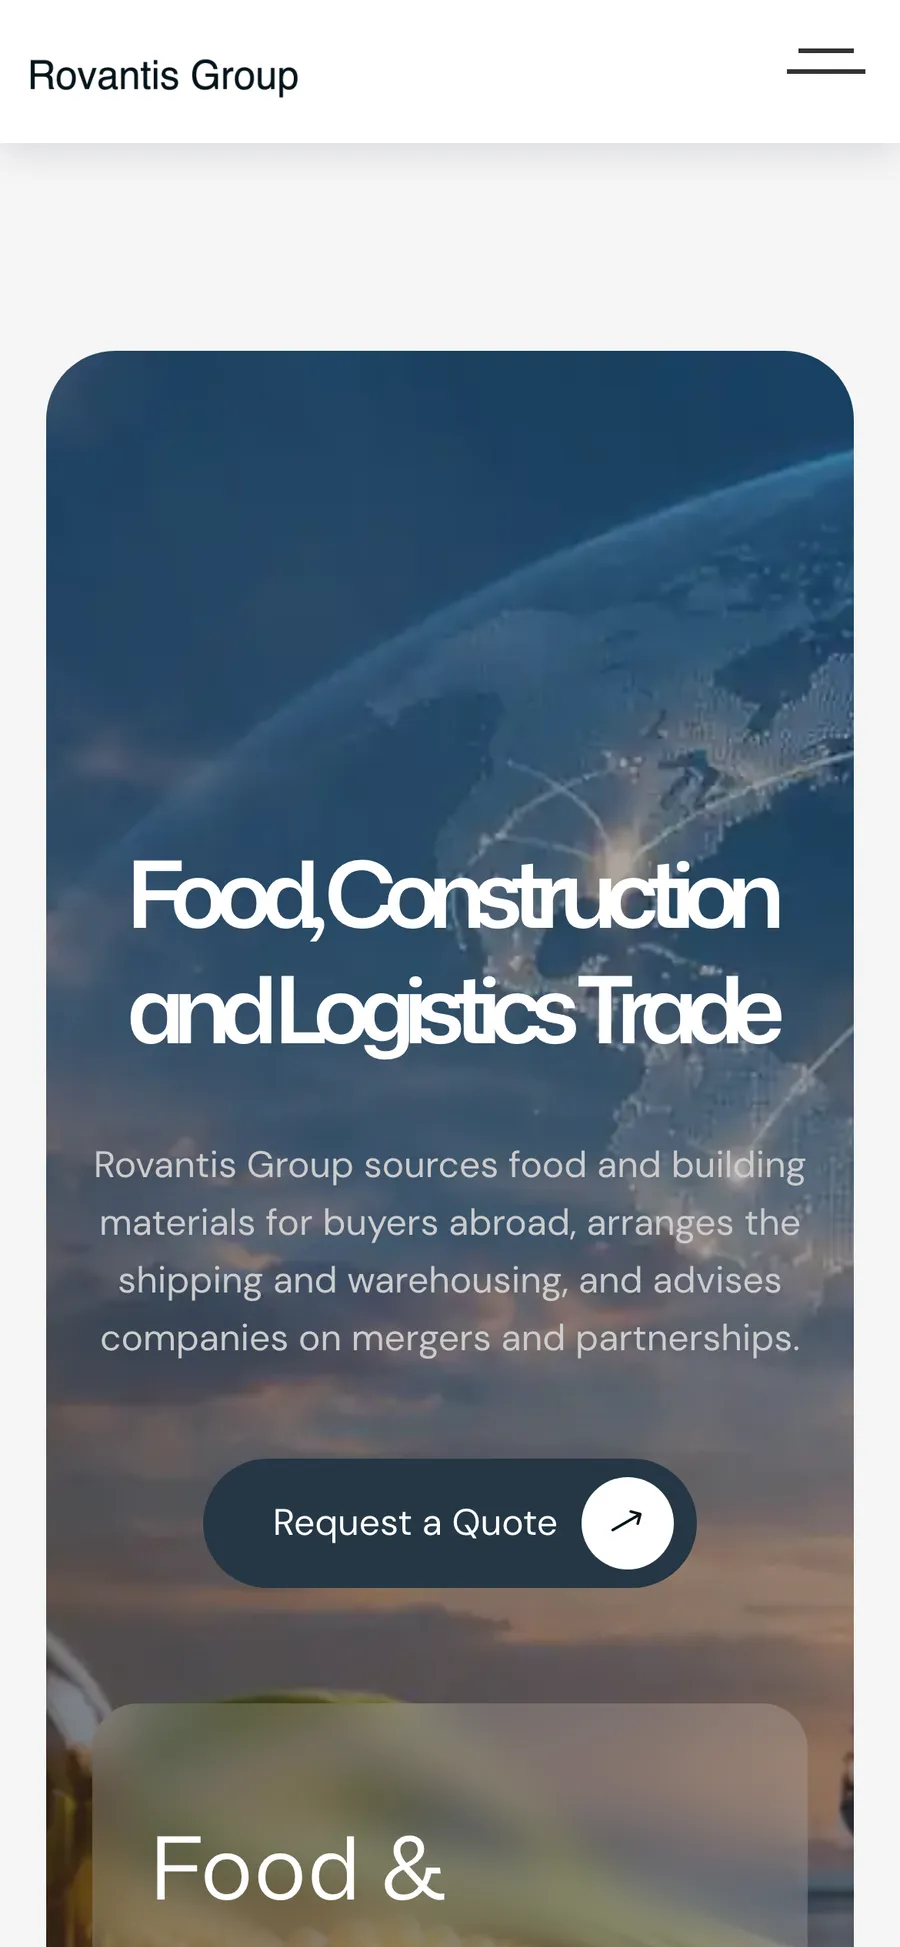
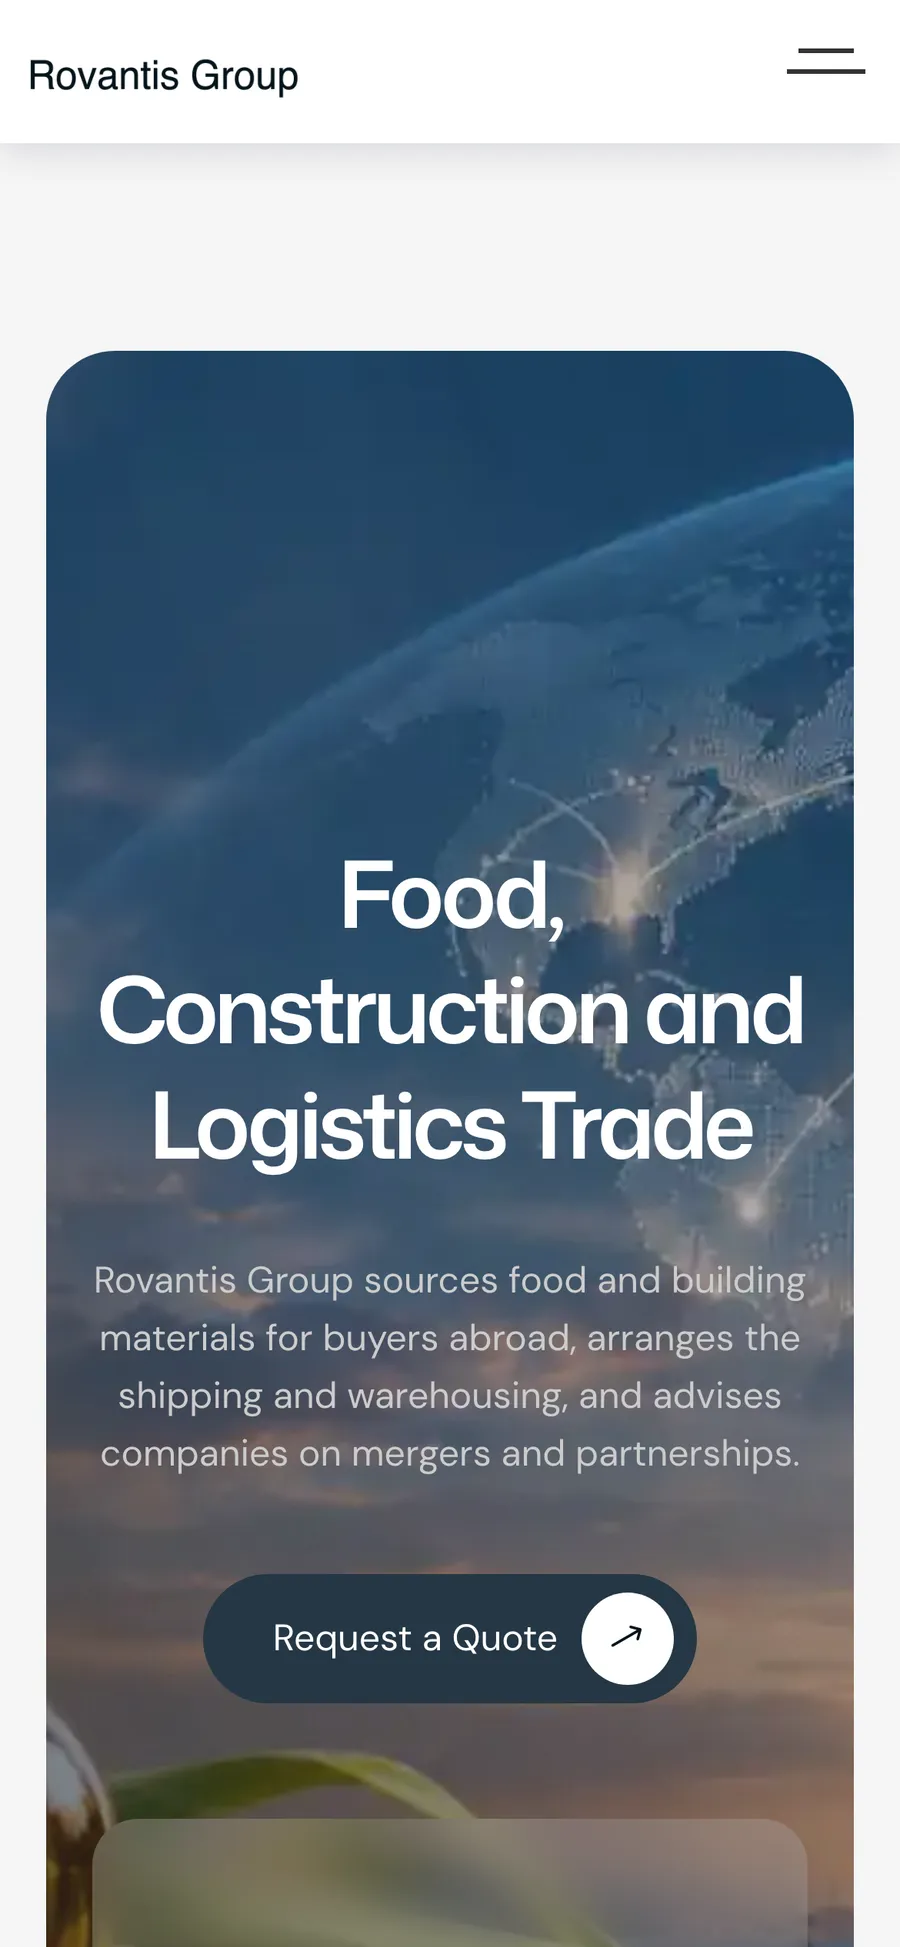
Rovantis telefon görüntüsü yenilendi (başlık harf aralığı düzeltildi)
Claude-Session: https://claude.ai/code/session_013wpkZtFnhUBo5BbB4sSmQT

Changed region(s): [[0.0311, 0.3082, 0.9644, 1.0], [0.6844, 0.2465, 0.84, 0.2773], [0.8711, 0.2157, 0.9333, 0.2465]]

diff --git a/index.html b/index.html
@@ -200,7 +200,7 @@
     </div>
     <figure class="vaka-sekil">
       <div class="ekran"><img src="img/is/rovantis-d.webp?v=2" width="1600" height="1000" loading="lazy" alt="Rovantis Group sitesinin ana sayfası"></div>
-      <div class="tel"><img src="img/is/rovantis-m.webp?v=2" width="600" height="1298" loading="lazy" alt="Rovantis Group sitesinin telefon görünümü"></div>
+      <div class="tel"><img src="img/is/rovantis-m.webp?v=3" width="600" height="1298" loading="lazy" alt="Rovantis Group sitesinin telefon görünümü"></div>
     </figure>
   </article>
 
